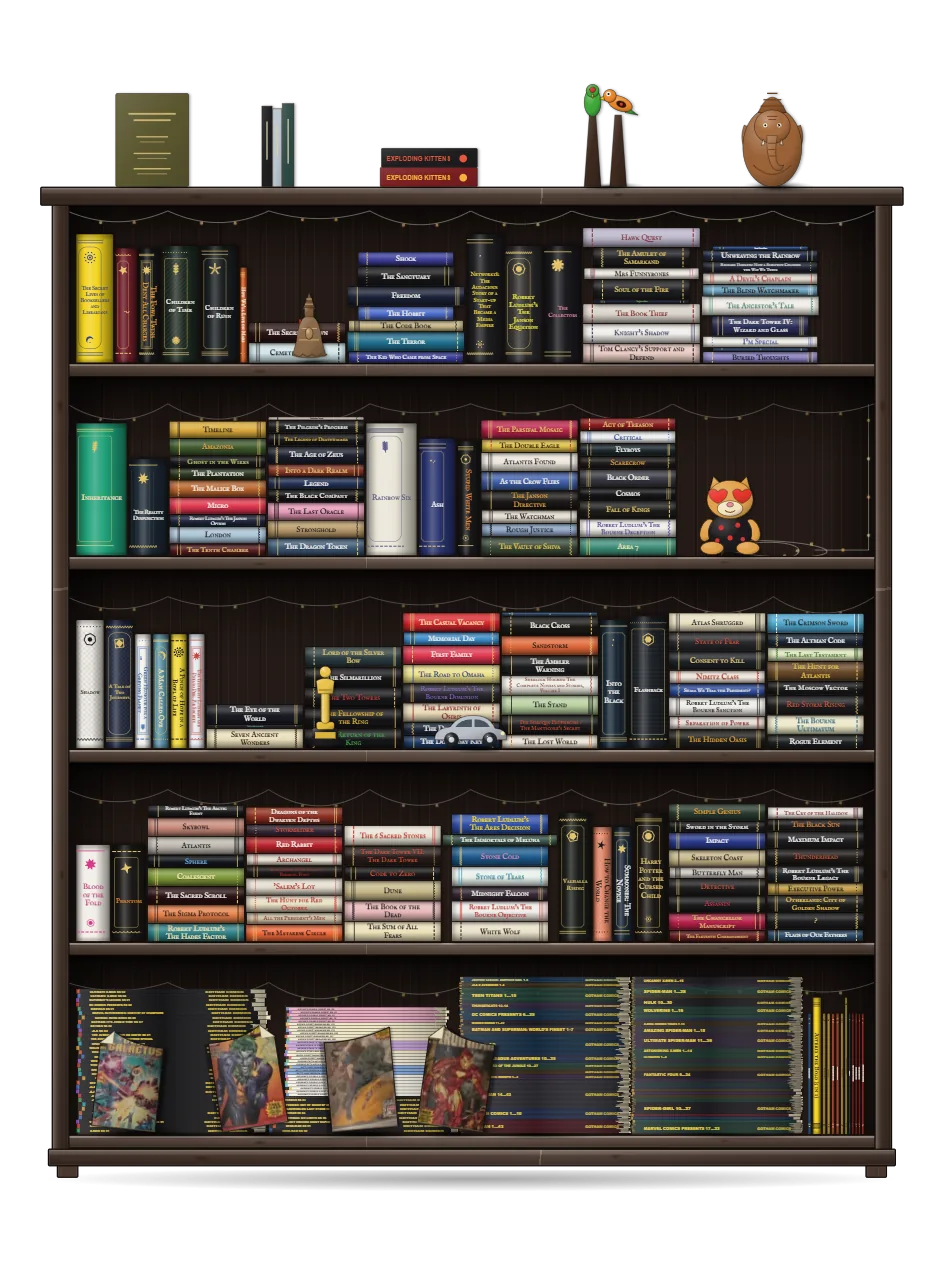
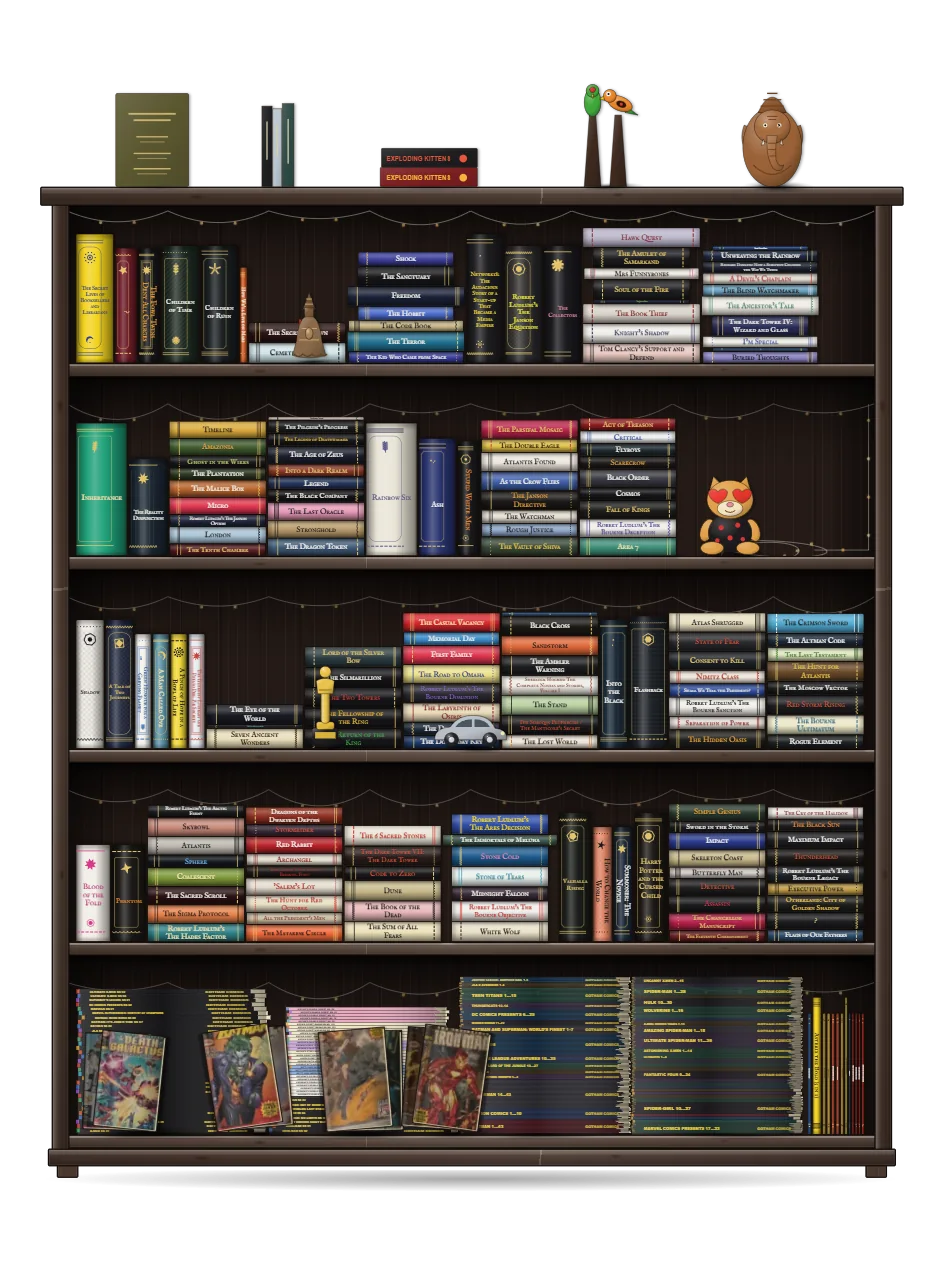
Dungeon v2.21.15
Library: the leaning comics drawn as stapled booklets with a spine, page edges and a second comic behind; no folded corners.

Changed region(s): [[0.2137, 0.78, 0.5495, 0.9048], [0.0916, 0.78, 0.1832, 0.9048]]

diff --git a/assets/js/library.js b/assets/js/library.js
@@ -626,15 +626,20 @@
       g+='<rect x="0" y="0" width="'+W+'" height="'+H+'" fill="url(#'+id+')"/></g>';return[Math.ceil(W+8),H,g]}
     /* A comic leaning on a pile: a thin booklet whose cover is bent (the page sags), turned a little towards you, with a folded corner,
        a dim page edge and a shadow. Its cover is a cell of the sprite. */
-    function leanArt(L,i){const w=L.w||108,h=L.h||160,yaw=L.yaw==null?.1:L.yaw,bow=L.bow==null?6:L.bow,ang=L.ang||0,sd=ang<0?-1:1,pad=24,Wc=Math.ceil(w+pad*2+h*Math.abs(Math.sin(ang*Math.PI/180))),Hc=Math.ceil(h+14),id='lc'+i,f=v=>v.toFixed(1);
-      const hl=sd>0?h:h*(1-yaw),hr=sd>0?h*(1-yaw):h,d=L.fold?Math.min(22,w*.2):0,cy=-(hl+hr)/2+2*bow,[cx0,cy0]=cvAt(L.cv);
-      let p;if(L.fold==='r')p='M0 0L'+w+' 0L'+w+' '+f(-hr+d)+'L'+f(w-d)+' '+f(-hr)+'Q'+f(w/2)+' '+f(cy)+' 0 '+f(-hl)+'Z';else if(L.fold==='l')p='M0 0L'+w+' 0L'+w+' '+f(-hr)+'Q'+f(w/2)+' '+f(cy)+' '+f(d)+' '+f(-hl)+'L0 '+f(-hl+d)+'Z';else p='M0 0L'+w+' 0L'+w+' '+f(-hr)+'Q'+f(w/2)+' '+f(cy)+' 0 '+f(-hl)+'Z';
-      let g='<defs><clipPath id="'+id+'c"><path d="'+p+'"/></clipPath><linearGradient id="'+id+'s" x1="0" y1="0" x2="1" y2="0"><stop offset="0" stop-color="#000" stop-opacity="'+(sd>0?.04:.2)+'"/><stop offset=".3" stop-color="#fff" stop-opacity=".14"/><stop offset=".6" stop-color="#000" stop-opacity=".02"/><stop offset="1" stop-color="#000" stop-opacity="'+(sd>0?.34:.12)+'"/></linearGradient></defs>';
-      g+='<g transform="translate('+pad+' '+(Hc-4)+') rotate('+ang+' '+(sd<0?0:w)+' 0)">';
-      g+='<path d="'+p+'" transform="translate('+(sd*7)+' 0)" fill="#000" opacity=".28"/>';
-      g+='<g clip-path="url(#'+id+'c)"><svg x="0" y="'+(-h)+'" width="'+w+'" height="'+h+'" viewBox="'+cx0*CWD+' '+cy0*CHT+' '+CWD+' '+CHT+'" preserveAspectRatio="xMidYMid slice"><image href="'+SPR+'" width="'+COLS*CWD+'" height="'+ROWS*CHT+'" preserveAspectRatio="none"/></svg><path d="'+p+'" fill="url(#'+id+'s)"/></g>';
-      g+='<path d="'+p+'" fill="none" stroke="#120d09" stroke-width="1.1" stroke-linejoin="round"/><path d="M0 -.5L'+w+' -.5" stroke="#7d725a" stroke-width="1.1" opacity=".7"/>';
-      if(L.fold)g+=(L.fold==='r'?'<path d="M'+f(w-d)+' '+f(-hr)+'L'+w+' '+f(-hr+d)+'L'+f(w-d)+' '+f(-hr+d)+'Z':'<path d="M'+f(d)+' '+f(-hl)+'L0 '+f(-hl+d)+'L'+f(d)+' '+f(-hl+d)+'Z')+'" fill="#e6dcc0" stroke="#7a6e52" stroke-width=".6"/>';
+    function leanArt(L,i){const w=L.w||102,h=L.h||152,ang=L.ang||0,sd=ang<0?-1:1,pad=26,bow=L.bow==null?1.4:L.bow,off=L.b2!=null?16:0,Wc=Math.ceil(w+pad*2+off+h*Math.abs(Math.sin(ang*Math.PI/180))),Hc=Math.ceil(h+12),f=v=>v.toFixed(1);
+      /* one comic: the cover (a cell of the sprite), a spine with two staples on its left, the pages showing along the free edges, a hint of gloss */
+      function one(cv,id,dark){const[cx0,cy0]=cvAt(cv),top=h-bow;
+        const p='M0 0L'+w+' 0L'+w+' '+f(-h)+'Q'+f(w/2)+' '+f(-top-bow)+' 0 '+f(-h)+'Z';
+        return '<defs><clipPath id="'+id+'c"><path d="'+p+'"/></clipPath><linearGradient id="'+id+'s" x1="0" y1="0" x2="1" y2="0"><stop offset="0" stop-color="#000" stop-opacity=".42"/><stop offset=".05" stop-color="#fff" stop-opacity=".1"/><stop offset=".08" stop-color="#000" stop-opacity=".14"/><stop offset=".3" stop-color="#fff" stop-opacity=".1"/><stop offset=".7" stop-color="#000" stop-opacity="0"/><stop offset="1" stop-color="#000" stop-opacity=".3"/></linearGradient></defs>'
+          +'<path d="'+p+'" transform="translate('+(sd*6)+' 0)" fill="#000" opacity="'+(dark?.18:.3)+'"/>'
+          +'<g clip-path="url(#'+id+'c)"><svg x="0" y="'+(-h)+'" width="'+w+'" height="'+h+'" viewBox="'+cx0*CWD+' '+cy0*CHT+' '+CWD+' '+CHT+'" preserveAspectRatio="xMidYMid slice"><image href="'+SPR+'" width="'+COLS*CWD+'" height="'+ROWS*CHT+'" preserveAspectRatio="none"/></svg>'
+          +'<path d="'+p+'" fill="url(#'+id+'s)"/>'+(dark?'<path d="'+p+'" fill="#000" opacity=".28"/>':'')+'</g>'
+          +'<rect x="3.6" y="'+f(-h*.78)+'" width="3.2" height="1.5" fill="#bfc3c8" opacity=".85"/><rect x="3.6" y="'+f(-h*.24)+'" width="3.2" height="1.5" fill="#bfc3c8" opacity=".85"/>'
+          +'<path d="M'+f(w-2)+' -2L'+f(w-2)+' '+f(-h+3)+'" stroke="#d9cfae" stroke-width="2.2" opacity=".8"/><path d="M'+f(w-3.6)+' -2L'+f(w-3.6)+' '+f(-h+4)+'" stroke="#a89d7e" stroke-width=".5" opacity=".7"/><path d="M3 -1.2L'+f(w-2)+' -1.2" stroke="#d9cfae" stroke-width="2" opacity=".7"/>'
+          +'<path d="'+p+'" fill="none" stroke="#120d09" stroke-width="1" stroke-linejoin="round"/>'}
+      let g='<g transform="translate('+pad+' '+(Hc-4)+') rotate('+ang+' '+(sd<0?0:w)+' 0)">';
+      if(L.b2!=null)g+='<g transform="translate('+(-sd*off)+' 0) rotate('+(-sd*4)+' '+(sd<0?0:w)+' 0)">'+one(L.b2,'lb'+i,true)+'</g>';
+      g+=one(L.cv,'lc'+i,false);
       return[Wc,Hc,g+'</g>']}
     (CTX.piles||[]).forEach(P=>{const ms=ALL.filter(b=>b.pile===P.id);if(!ms.length)return;ms.forEach(b=>{b.hay=(b.t+' '+(b.tags||[]).join(' ')).toLowerCase()});PILE[P.id]=Object.assign({},P,{members:ms});CURIO['pile:'+P.id]=pileArt(P,ms);MAT.x.push('pile:'+P.id);(P.lean||[]).forEach((L,j)=>{const k='lean:'+P.id+j;CURIO[k]=leanArt(L,P.id+j);MAT.x.push(k)})});
     const matOf=k=>MAT.x.indexOf(k)>=0?'x':MAT.s.indexOf(k)>=0?'s':MAT.g.indexOf(k)>=0?'g':MAT.f.indexOf(k)>=0?'f':'m';

diff --git a/docs/library.md b/docs/library.md
@@ -62,7 +62,7 @@ The `piles` list near the top of the data file sets the piles:
 | `a`, `p`, `h`, `c`, `c2`, `cn` | What each comic takes unless it says otherwise: author or publisher, height, spine colour, title colour and colour name. |
 | `sets` | `true` for a pile of single issues: drawn as a boxed set, one band for each title, lettered with the title's name and the issues in it. |
 | `imprint` | Optional. A second line of lettering on each spine ("GOTHAM COMICS"). |
-| `lean` | Optional. Comics leaning on the pile, as a list of `{cv, ser, at, ang, w, h, fold, yaw, bow}`: `cv` is the cover (see below), `ser` the title in the pile it opens, `at` where along the pile (0 to 1), `ang` the lean in degrees (negative leans left), `fold` `"l"` or `"r"` for a folded top corner, `yaw` how far it is turned towards you and `bow` how much the page sags. |
+| `lean` | Optional. Comics leaning on the pile, as a list of `{cv, b2, ser, at, ang, w, h, bow}`: `cv` is the cover (see below), `b2` the cover of a second comic leaning behind it, `ser` the title in the pile it opens, `at` where along the pile (0 to 1), `ang` the lean in degrees (negative leans left), and `bow` how much the page sags (a little). Each is drawn as a stapled booklet: a spine, its pages showing along the edges, a shadow. |
 
 A comic in a pile is a line in `books` with only `t` (title), `pile` (the pile's `id`) and `tags`. It may add `c`, `w` or `n` of its own. The order of the lines is the order in the pile, top to bottom. A title with several issues is "Title No. 14", "Title No. 15" and so on: the card groups them by the words before "No.".
 

diff --git a/CHANGELOG.md b/CHANGELOG.md
@@ -1,5 +1,9 @@
 # Changelog
 
+## 2.21.15
+
+- **The leaning comics look like comics.** They were bent and had a folded corner, which made them look like posters. They are now stapled booklets: a spine with two staples, the pages showing along the edges, hardly any bend, a shadow, and a second comic leaning behind each. The folded corners are gone.
+
 ## 2.21.14
 
 - **The single issues are drawn as a set.** The two piles of Gotham single issues behind the Super Specials now read like a multi-volume collection: one band for each title, lettered with its name and the issues in it ("Superman 14–43", "Teen Titans 1…15"), the Gotham Comics imprint down the right, and paper showing at the end of each. Before, they were plain colour stripes.
